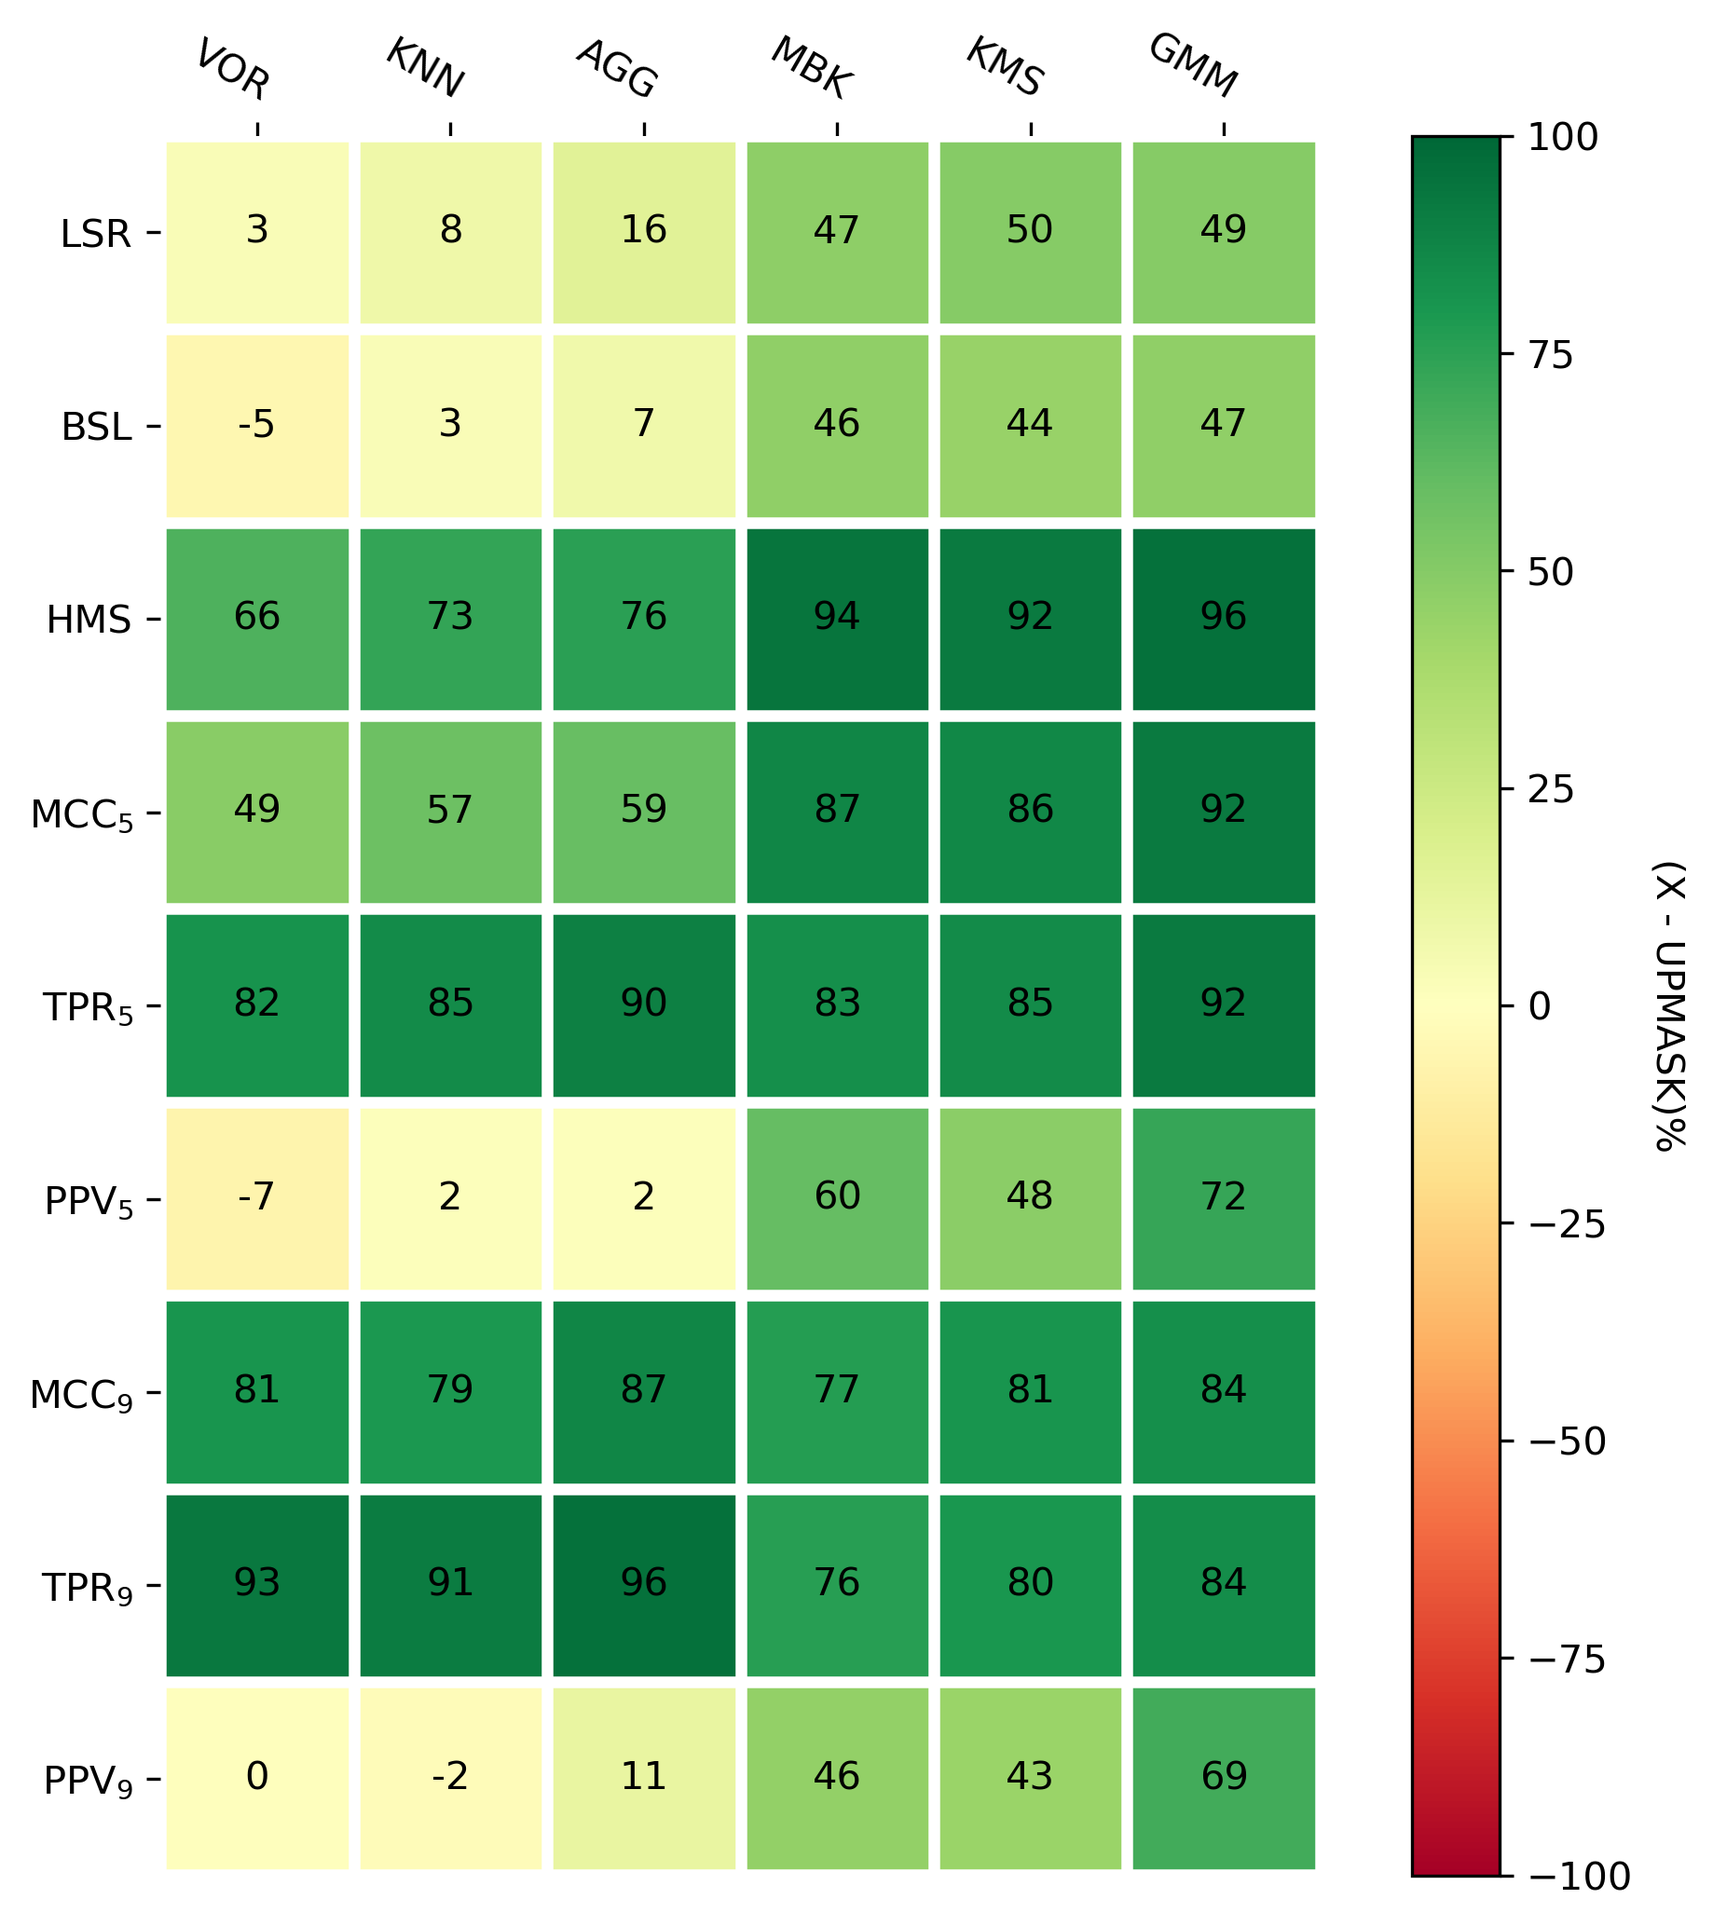
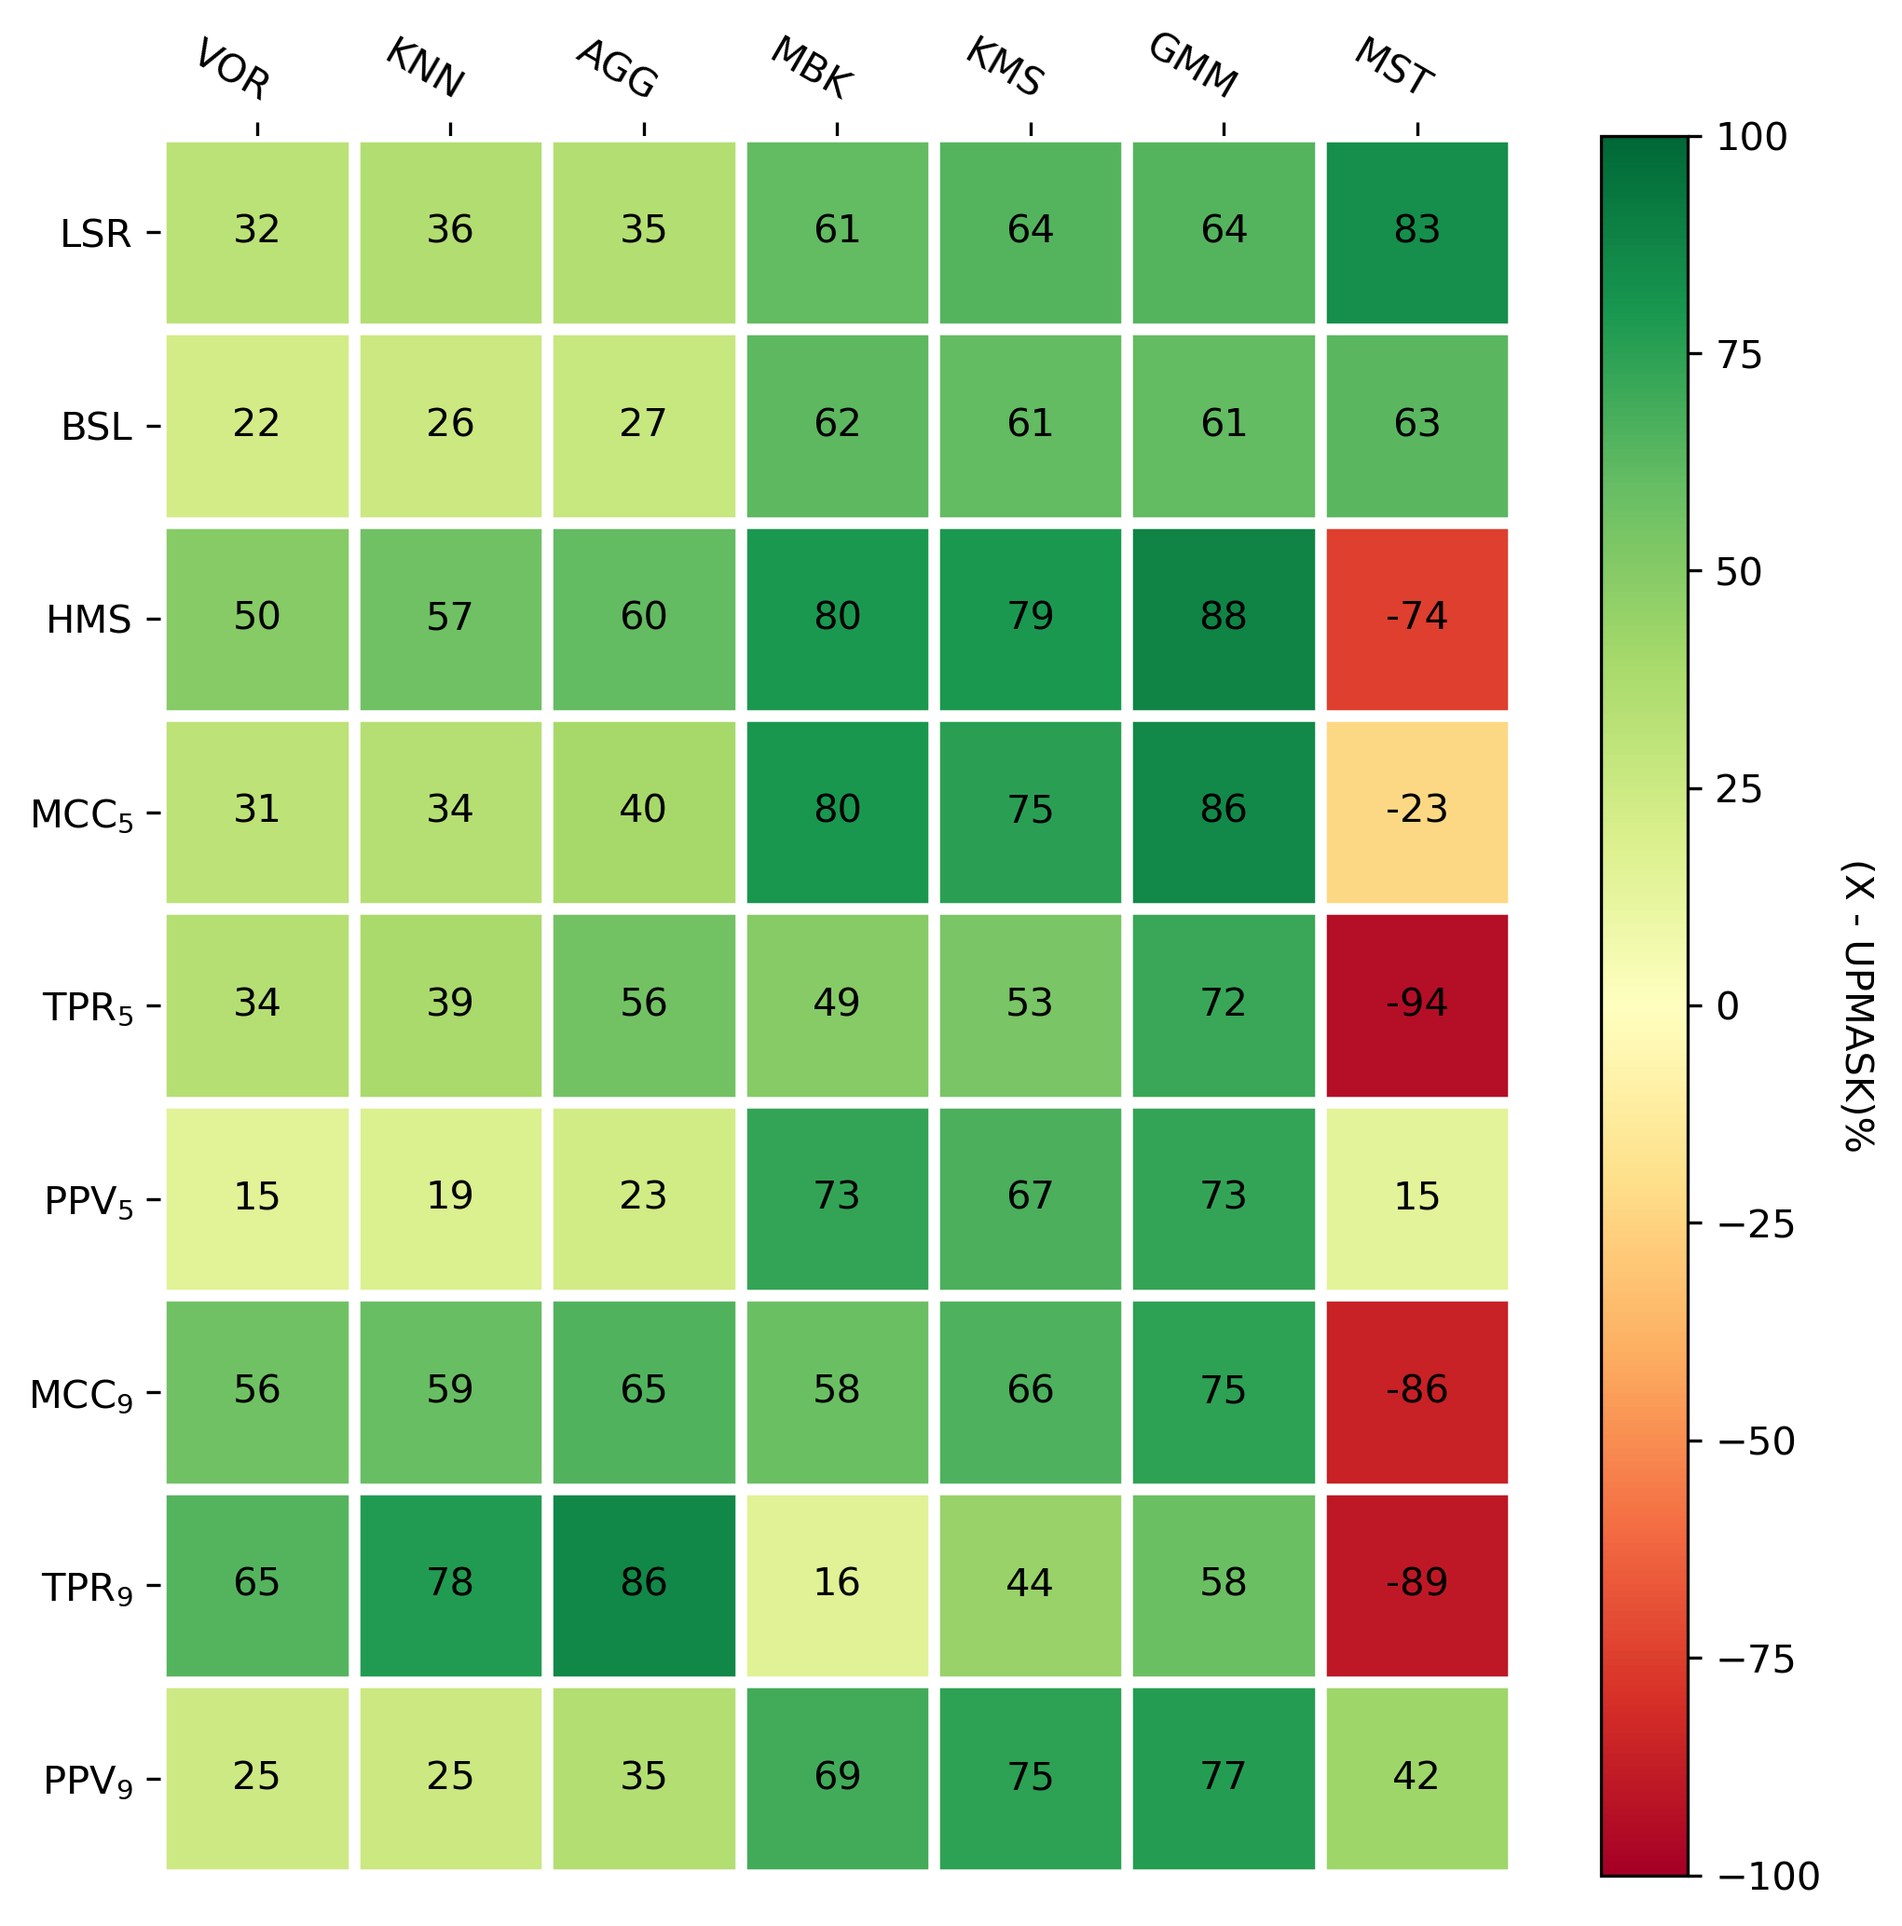
updt repo 2

diff --git a/matrix.py b/matrix.py
@@ -10,9 +10,9 @@ def main():
     """
     # Defines which results to use
     # # Cantat-Gaudin results
-    UP_alg, N_UPMASK = "CG_", "15" # "25"
+    # UP_alg, N_UPMASK = "CG_", "15" # "25"
     # Original UPMASK results
-    # UP_alg, N_UPMASK = "", "25"
+    UP_alg, N_UPMASK = "", "25"
 
     configs = ["Voron", "kNNde", "Agglo", 'MiniB', "KMean", "Gauss"]
     col_labels = ['VOR', 'KNN', 'AGG', 'MBK', 'KMS', 'GMM']
